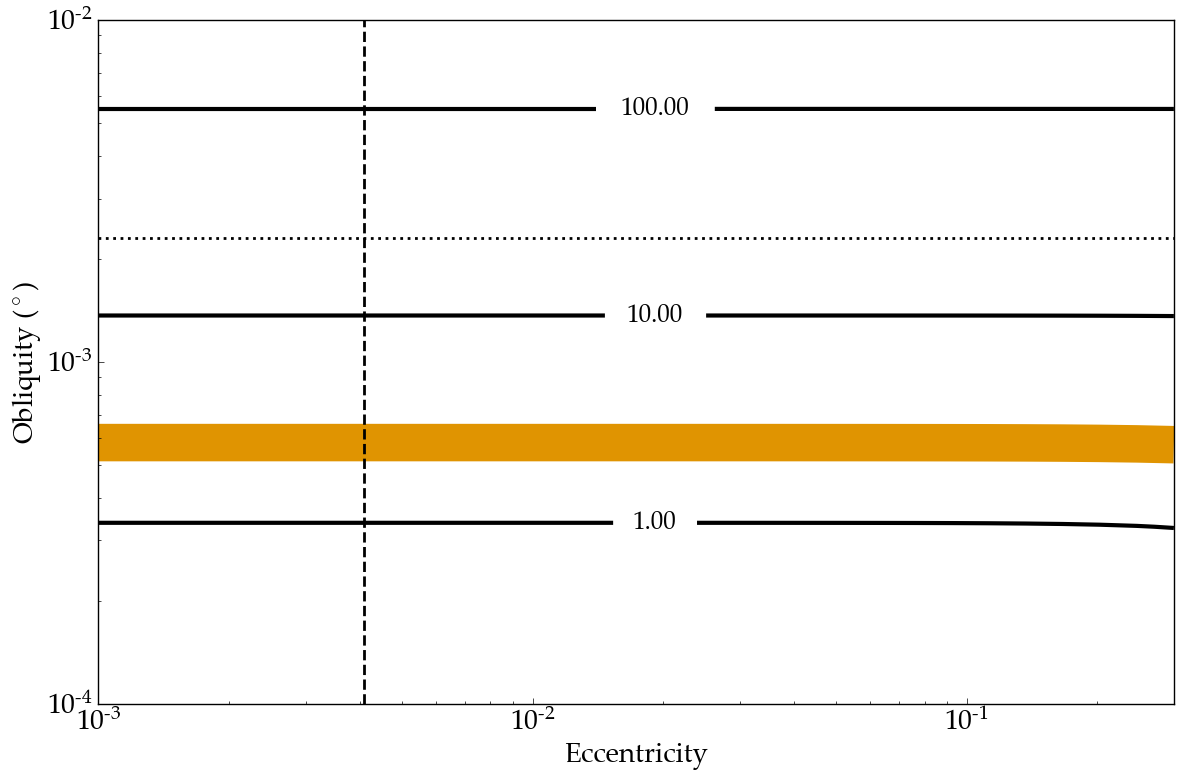
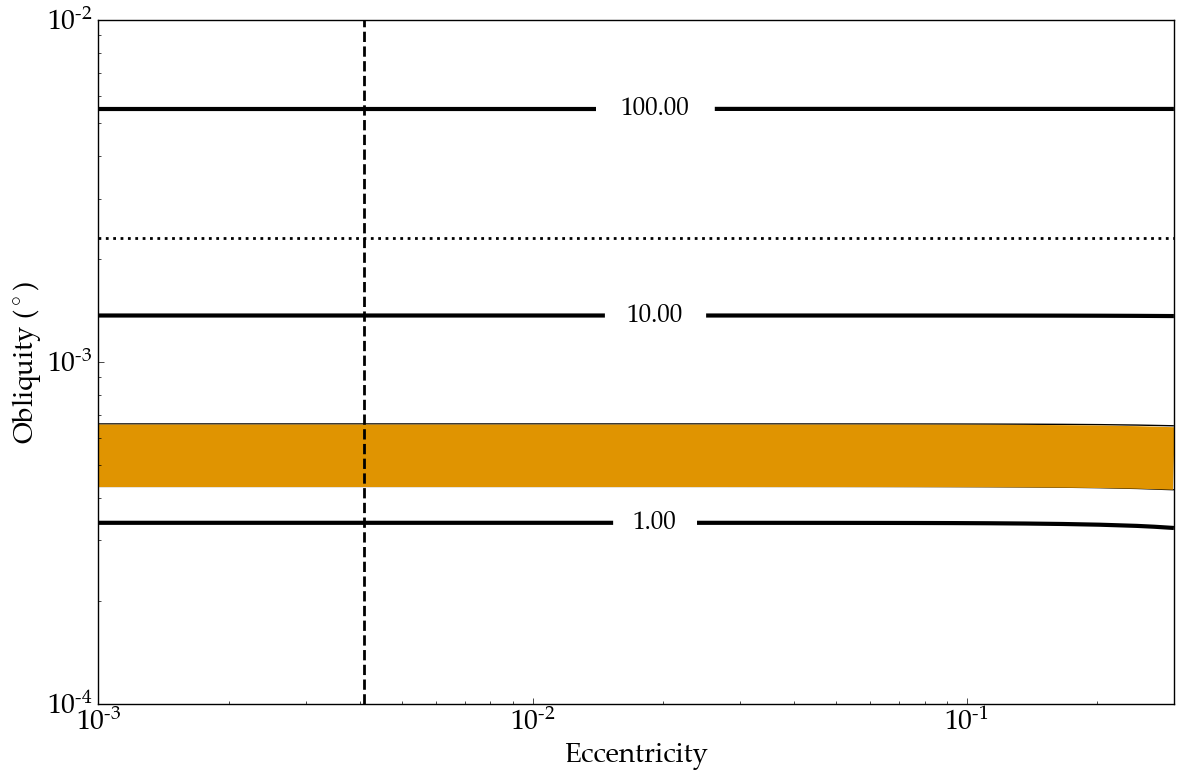
Changed lower limit of Io's heat flux to 1.5 W/m^2 to match the summary in Veeder et al. (2012).

Changed region(s): [[0.0609, 0.5846, 1.0, 0.6462], [0.9434, 0.5231, 0.9738, 0.5538], [0.8825, 0.5231, 0.9129, 0.5538]]

diff --git a/examples/IoHeat/runall.py b/examples/IoHeat/runall.py
@@ -68,9 +68,9 @@ ContSet = plt.contour(ecc,obl,heat,5,colors='black',linestyles='solid',
                       levels=[0.01,0.1,1,10,100],linewidths=3)
 plt.clabel(ContSet,fmt="%.2f",inline=True,fontsize=18)
 
-# Io's heat flux is 2-3 W/m^2. After some fussing, this choice of contour matches that range.
+# Io's heat flux is 1.5-3 W/m^2. After some fussing, this choice of contour matches that range.
 plt.contour(ecc,obl,heat,5,colors=vpl.colors.orange,linestyles='solid',
-                      levels=[2.45],linewidths=27)
+                      levels=[2.1],linewidths=45)
 
 plt.tight_layout()
 
